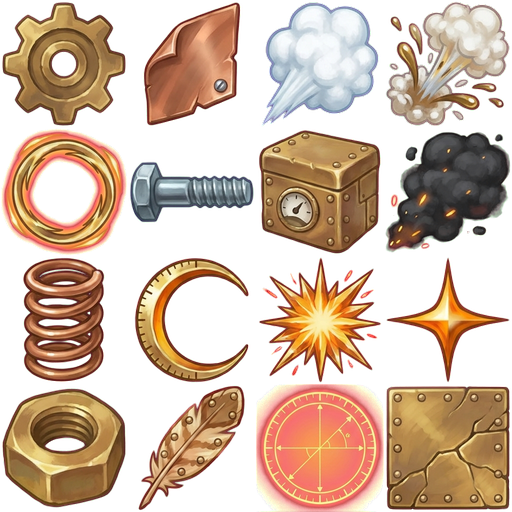
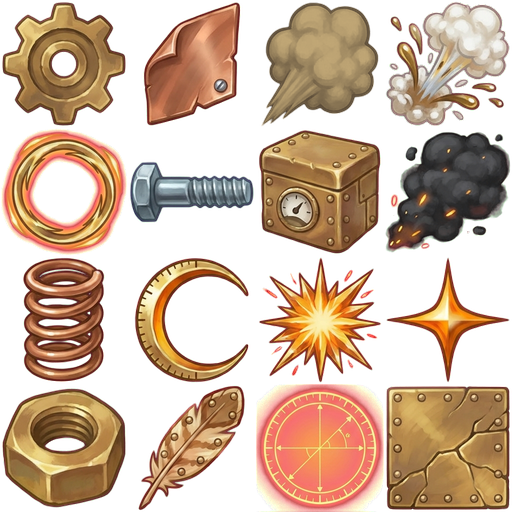
Hoot Clockwork: sooty brass steam instead of white snow puffs

Changed region(s): [[0.5, 0.0, 0.75, 0.25]]

diff --git a/src/render/fx/costumeSkins.ts b/src/render/fx/costumeSkins.ts
@@ -101,8 +101,20 @@ const TINTS: Record<string, Record<number, number>> = {
   frostwreck: { 0xc0fff0: 0xf0faff, 0xb0fff0: 0xe0f4ff, 0xa0ffe8: 0xc8ecff },
   // Professor Hoot (architect): his frost/ice kit colours per costume.
   snowy: { 0xa8e8ff: 0xd8b8ff, 0xd8f4ff: 0xf2e6ff, 0xe8fbff: 0xf6eeff, 0xe8f6ff: 0xf2e8ff },
-  temple: { 0xa8e8ff: 0x58e0b8, 0xd8f4ff: 0xb8f0d8, 0xe8fbff: 0xd8fff0, 0xe8f6ff: 0xc8f0e0 },
-  clockwork: { 0xa8e8ff: 0xffb850, 0xd8f4ff: 0xffe0a0, 0xe8fbff: 0xfff0c8, 0xe8f6ff: 0xd8d0c8 },
+  temple: {
+    0xbff0ff: 0x58d8b8,
+    0xa8e8ff: 0x58e0b8,
+    0xd8f4ff: 0xb8f0d8,
+    0xe8fbff: 0xd8fff0,
+    0xe8f6ff: 0xc8f0e0,
+  },
+  clockwork: {
+    0xbff0ff: 0xffc060,
+    0xa8e8ff: 0xffb850,
+    0xd8f4ff: 0xc8a060,
+    0xe8fbff: 0xfff0c8,
+    0xe8f6ff: 0xd8d0c8,
+  },
   // Gristle (vintner): the wine-pink hit flashes become harvest gold, forge orange and frost blue.
   harvestking: { 0xb0305a: 0xe0a020, 0xffd8e0: 0xfff0b0, 0xffd0e0: 0xfff0c0 },
   forgemaster: { 0xb0305a: 0xff6a10, 0xffd8e0: 0xffc080, 0xffd0e0: 0xffd090, 0xfff0e0: 0xffd8b0, 0xffe080: 0xff9a40 },

diff --git a/docs/decisions.md b/docs/decisions.md
@@ -1093,3 +1093,4 @@ Per hero: what a top player would exploit, taught to the CPUs (`src/sim/bot/tact
 - Gristle's anvil hammer remodelled: the old weapon was cut out of the shared props sheet and decimated, so its anvil was small, distorted and hard to read. New Nano Banana concept (big classic anvil head: flat face, long horn, heel, pinched waist, stepped foot; chained oak shaft, leather grip, brass pommel; tools/blender/tripo_heroes/vintner_hammer_prompt.txt) -> its own Tripo P1 model (assets/source/vintner_hammer_tripo.glb, 3k -> 2.4k tris), 1.25 m in hand (was 1.15). The back anvil still comes from the props sheet. Costume repaints (forgemaster, harvestking, icewine) regenerated for the new UVs. ~$0.8 fal.
 - HUD passive slot: a framed box after the Z ring on the player panel for champions whose passive has a live state, with painted glyphs (`assets/ui/glyphs/passive_*.png`, Nano Banana Pro via gen-class-glyphs.mjs, raw glyphs_passive_raw.png): Wren Vantage (bow-eye on a ledge, lit when on), Gristle Grit (cracked stone shield, fills), Kelp Tide (wave, stack count), Hollin Runes (quill rune, runes standing), Hoot Watchtower (tower + eye, lit when perched, lookouts standing). Gold frame when full or lit. Replaces the old vector diamond / shield beside the Z ring. Charged abilities (Hoot B / R) show banked uses in a gold badge on the button. slice-class-glyphs.py splits at the drawn panel dividers (panels come back uneven).
 - HUD: charged abilities show one yellow pip per banked use under B / R (was a number badge); the passive box sits further from the Z ring. Costume gaps fixed: wall / fort crumble FX (Hoot snow forts, Thorn and Stig walls) ran outside any costume - now under the owner's (stored on the wall view); wall meshes are built under it too (moss tufts etc. via cm()); Hoot's ice chunks use tint(ICE); Stig's tesla glow sprite takes the costume's arc cell and colour. Audit of every kit import outside src/render/kits: zones, snares, projectiles, hero props (pip, keg rider, scribe bolts, bee lift) already resolve the owner's costume; generic structure build / death puffs are shared by design.
+- Hoot Clockwork: the atlas "snow" cell (the puff of fort / lookout rises, crumbles and avalanches) was painted bright white steam; recoloured to sooty brass steam (umber -> khaki) to match the brass/copper forts. Clockwork ice-chunk colour 0xd8f4ff -> 0xc8a060 (was pale cream). Hoot's trail colour mapped per costume.
